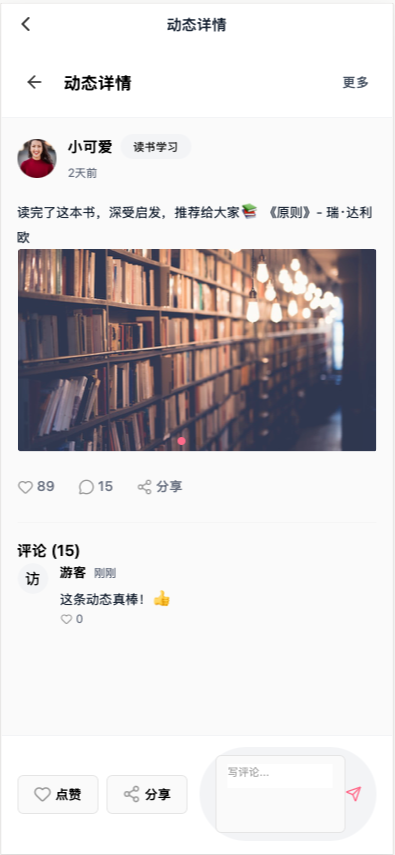
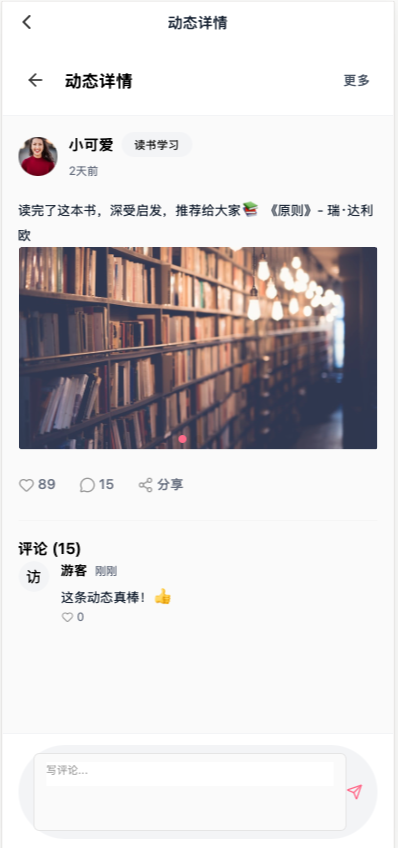
feat: 优化视频动态详情页显示，与图片动态保持一致
- 视频默认显示封面图，尺寸和列表页一致
- 点击播放图标后，视频才放大播放（16:9）
- 添加关闭按钮，可关闭视频播放，回到封面图
- 视频播放结束后自动回到封面图显示
- 添加 isPlaying 状态控制视频播放状态
- 导入 Play 图标用于播放按钮

diff --git a/src/pages/posts/detail.tsx b/src/pages/posts/detail.tsx
@@ -1,7 +1,7 @@
 import { View, Text, Image, Video, Swiper, SwiperItem } from '@tarojs/components'
 import Taro, { useLoad } from '@tarojs/taro'
 import { useState } from 'react'
-import { ArrowLeft, Heart, MessageCircle, Share2, Send } from 'lucide-react-taro'
+import { ArrowLeft, Heart, MessageCircle, Share2, Send, Play } from 'lucide-react-taro'
 import { Avatar, AvatarFallback, AvatarImage } from '@/components/ui/avatar'
 import { Badge } from '@/components/ui/badge'
 import { Button } from '@/components/ui/button'
@@ -149,6 +149,7 @@ export default function PostDetailPage() {
   const [currentImageIndex, setCurrentImageIndex] = useState(0)
   const [videoError, setVideoError] = useState(false)
   const [commentText, setCommentText] = useState('')
+  const [isPlaying, setIsPlaying] = useState(false)
 
   useLoad((options) => {
     const postId = options.id
@@ -167,7 +168,8 @@ export default function PostDetailPage() {
       console.log('================')
 
       setPost(foundPost)
-      setVideoError(false)  // 重置错误状态
+      setVideoError(false)
+      setIsPlaying(false)  // 重置播放状态
 
       // 延迟检查渲染状态
       setTimeout(() => {
@@ -209,6 +211,18 @@ export default function PostDetailPage() {
       selector: '.comments-section',
       duration: 300
     })
+  }
+
+  // 播放视频
+  const handlePlayVideo = () => {
+    console.log('播放视频')
+    setIsPlaying(true)
+  }
+
+  // 关闭视频播放
+  const handleCloseVideo = () => {
+    console.log('关闭视频')
+    setIsPlaying(false)
   }
 
   // 提交评论
@@ -299,43 +313,83 @@ export default function PostDetailPage() {
           <View className="media-container mb-4">
             {/* 视频类型 */}
             {post.type === 'video' && post.videoUrl && (
-              <View
-                className="video-wrapper w-full rounded-lg"
-                style={{
-                  aspectRatio: '16/9',
-                  overflow: 'hidden',
-                  backgroundColor: '#000'
-                }}
-              >
-                {videoError ? (
-                  <View className="video-error flex flex-col items-center justify-center" style={{ height: '100%' }}>
-                    <Text className="text-gray-500 mb-2">视频加载失败</Text>
-                    <Text className="text-xs text-gray-400">请检查网络或稍后重试</Text>
+              <View className="relative w-full">
+                {!isPlaying ? (
+                  /* 显示封面图 + 播放图标 */
+                  <View
+                    className="video-cover w-full rounded-lg"
+                    style={{ aspectRatio: '16/9', overflow: 'hidden', backgroundColor: '#000' }}
+                  >
+                    <Image
+                      src={post.coverUrl}
+                      mode="aspectFill"
+                      className="w-full h-full"
+                    />
+                    <View
+                      className="absolute inset-0 flex items-center justify-center bg-black bg-opacity-30"
+                      onClick={handlePlayVideo}
+                    >
+                      <Play size={64} color="#ffffff" />
+                    </View>
                   </View>
                 ) : (
-                  <Video
-                    id={`video-${post.id}`}
-                    src={post.videoUrl}
-                    className="w-full h-full"
-                    controls
-                    poster={post.coverUrl}
-                    autoplay={false}
-                    loop={false}
-                    muted={false}
-                    showPlayBtn
-                    showCenterPlayBtn
-                    showFullscreenBtn
-                    enableProgressGesture
-                    showProgress
-                    objectFit="contain"
-                    onError={handleVideoError}
-                    onPlay={() => {
-                      console.log('视频开始播放')
-                      Taro.showToast({ title: '开始播放', icon: 'success', duration: 1000 })
-                    }}
-                    onPause={() => console.log('视频暂停')}
-                    onEnded={() => console.log('视频播放结束')}
-                  />
+                  /* 显示视频播放器 */
+                  <View className="relative w-full">
+                    <View
+                      className="video-player w-full rounded-lg"
+                      style={{ aspectRatio: '16/9', overflow: 'hidden', backgroundColor: '#000' }}
+                    >
+                      {videoError ? (
+                        <View className="video-error flex flex-col items-center justify-center h-full">
+                          <Text className="text-gray-500 mb-2">视频加载失败</Text>
+                          <Text className="text-xs text-gray-400">请检查网络或稍后重试</Text>
+                          <Button
+                            variant="outline"
+                            size="sm"
+                            className="mt-4"
+                            onClick={handleCloseVideo}
+                          >
+                            关闭
+                          </Button>
+                        </View>
+                      ) : (
+                        <Video
+                          id={`video-${post.id}`}
+                          src={post.videoUrl}
+                          className="w-full h-full"
+                          controls
+                          poster={post.coverUrl}
+                          autoplay
+                          loop={false}
+                          muted={false}
+                          showPlayBtn
+                          showCenterPlayBtn
+                          showFullscreenBtn
+                          enableProgressGesture
+                          showProgress
+                          objectFit="contain"
+                          onError={handleVideoError}
+                          onPlay={() => {
+                            console.log('视频开始播放')
+                          }}
+                          onPause={() => console.log('视频暂停')}
+                          onEnded={() => {
+                            console.log('视频播放结束')
+                            setIsPlaying(false)
+                          }}
+                        />
+                      )}
+                    </View>
+                    {/* 关闭按钮 */}
+                    <Button
+                      variant="ghost"
+                      size="sm"
+                      className="absolute top-2 right-2 bg-black bg-opacity-50"
+                      onClick={handleCloseVideo}
+                    >
+                      <Text className="text-white text-xs">✕ 关闭</Text>
+                    </Button>
+                  </View>
                 )}
               </View>
             )}
